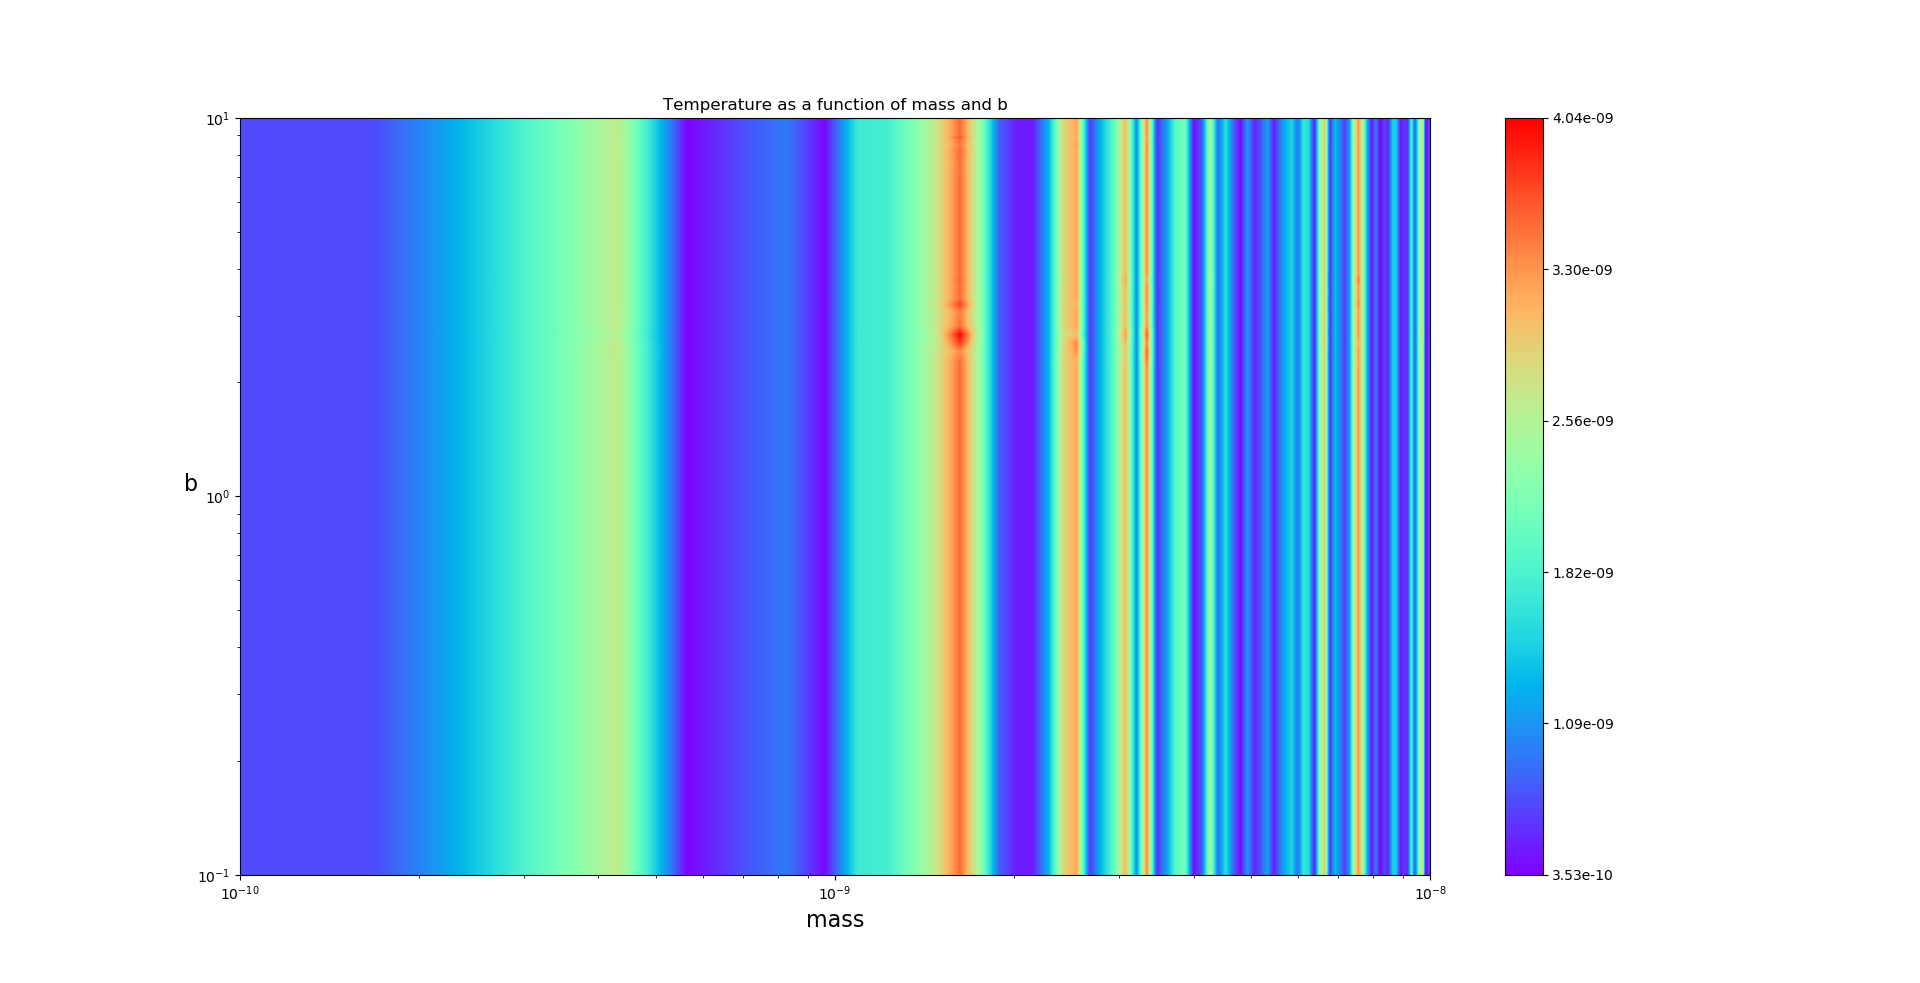
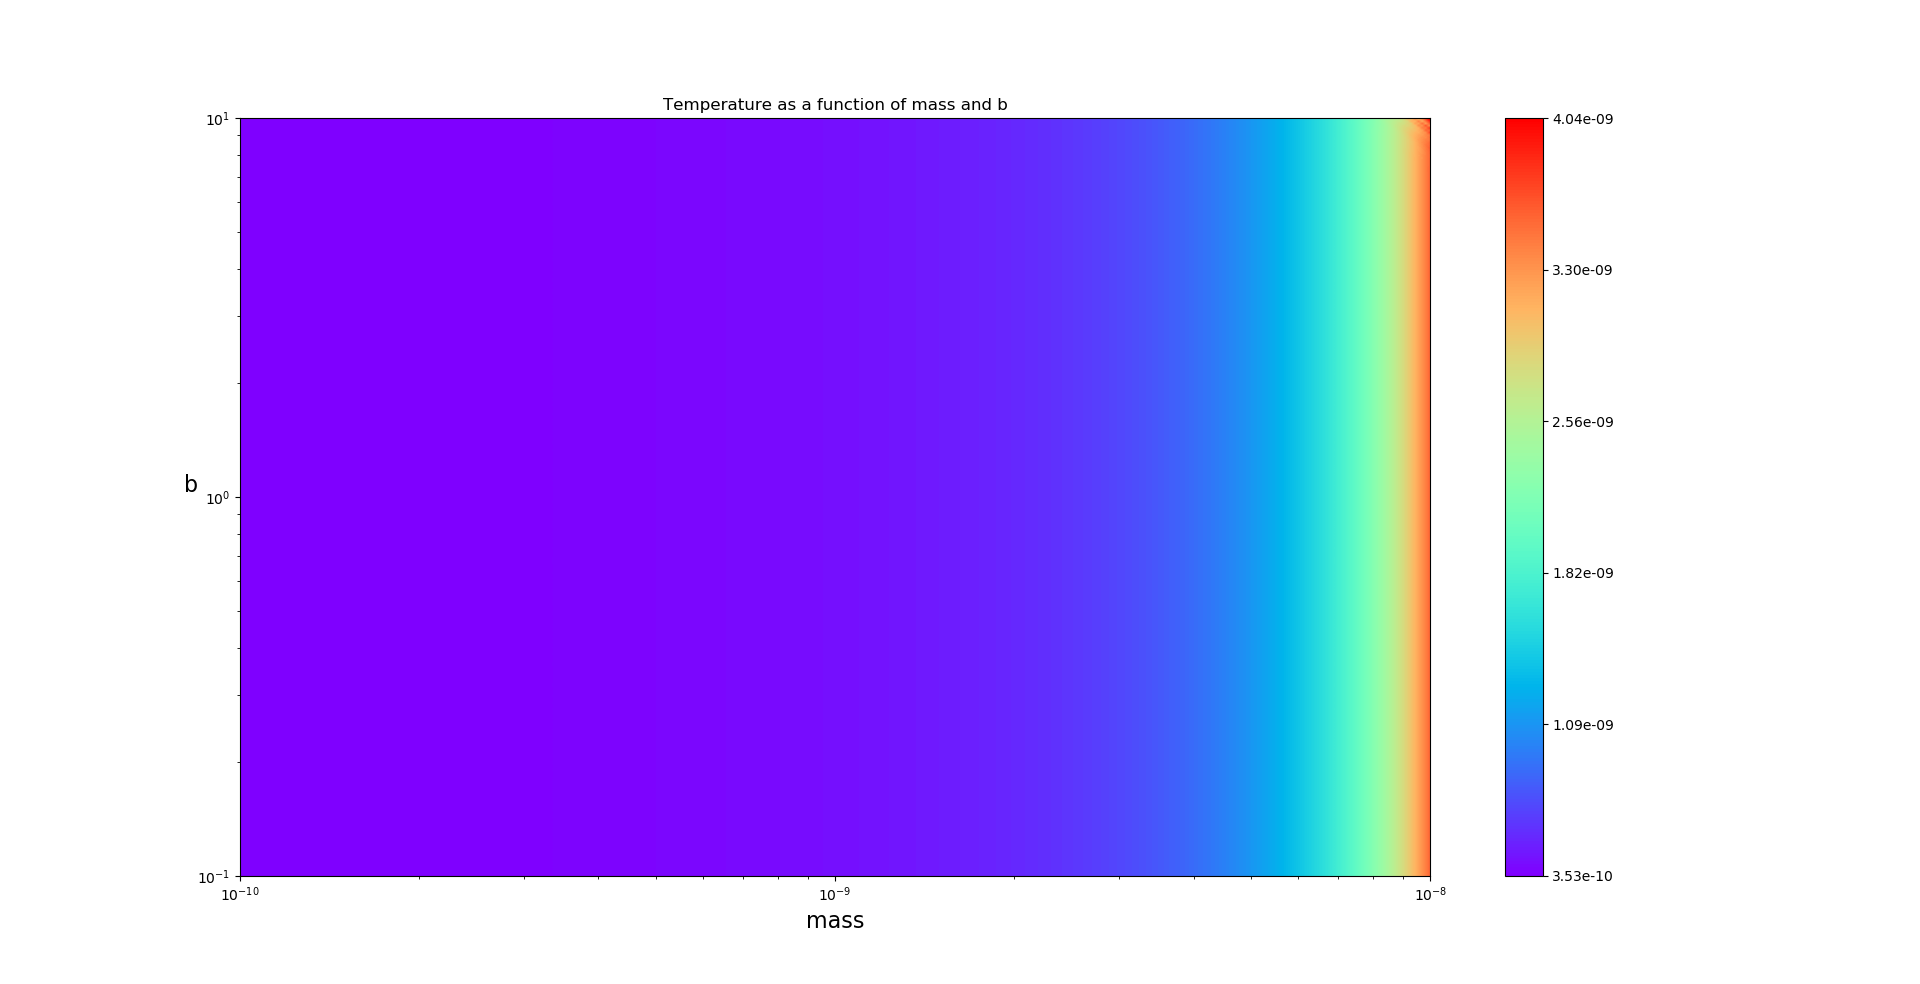
Major bug fix! Code now working (reordering mass and b lists)

diff --git a/b_graph.py b/b_graph.py
@@ -1,0 +1,58 @@
+import pickle as pickle
+import matplotlib.pyplot as plt
+from matplotlib import cm
+import numpy as np
+from tqdm import tqdm
+import time
+
+with open('results.pkl', 'rb') as f:
+	results = pickle.load(f)
+
+
+temps= []
+for x in results:
+	temps.append([x[1][0], x[0][2], x[0][3], x[0][4], x[0][5], x[1][-1], x[1][1][1], x[1][2][1], x[1][3][1]])
+
+print(len(temps))
+#print(temps)
+mat_temps = []
+rad_temps = []
+
+for x in temps:
+	if x[-1]:
+		mat_temps.append(x)
+	else:
+		rad_temps.append(x)
+'''
+print len(rad_temps)
+print max(rad_temps)
+print min(rad_temps)
+print len(mat_temps)
+print max(mat_temps)
+print min(mat_temps)
+'''
+mass_points = list(set([x[1] for x in temps]))
+b_points = list(set([x[3] for x in temps])) 
+
+mass_points = sorted(mass_points)
+b_points = sorted(b_points)
+
+print(len(b_points))
+b_p = b_points[-1]
+
+def create_Z(mass_points, l, xi, b):
+	data = [h for h in temps if h[4] == xi and h[2] == l*h[1] and h[3] == b]
+	points = [(data[k][0], data[k][1]) for k in range(len(data))] # (temp, mass)
+	points = sorted(points, key=lambda x: x[1])
+	return points
+
+#print(temps[0])
+points = create_Z(mass_points, 10**-3, 1.0/6, b_p)
+print(points)
+print (b_p)
+plt.plot([p[1] for p in points], [p[0] for p in points])
+plt.xlabel("mass")
+plt.ylabel("temperature")
+plt.xscale("log")
+plt.title("Graph with b equal to {}".format("%.2f" % b_p))
+plt.show()

diff --git a/load_results.py b/load_results.py
@@ -33,6 +33,10 @@ print min(mat_temps)
 mass_points = list(set([x[1] for x in temps]))
 b_points = list(set([x[3] for x in temps])) 
 
+mass_points = sorted(mass_points)
+b_points = sorted(b_points)
+
+
 X, Y = np.meshgrid(mass_points, b_points)
 
 
